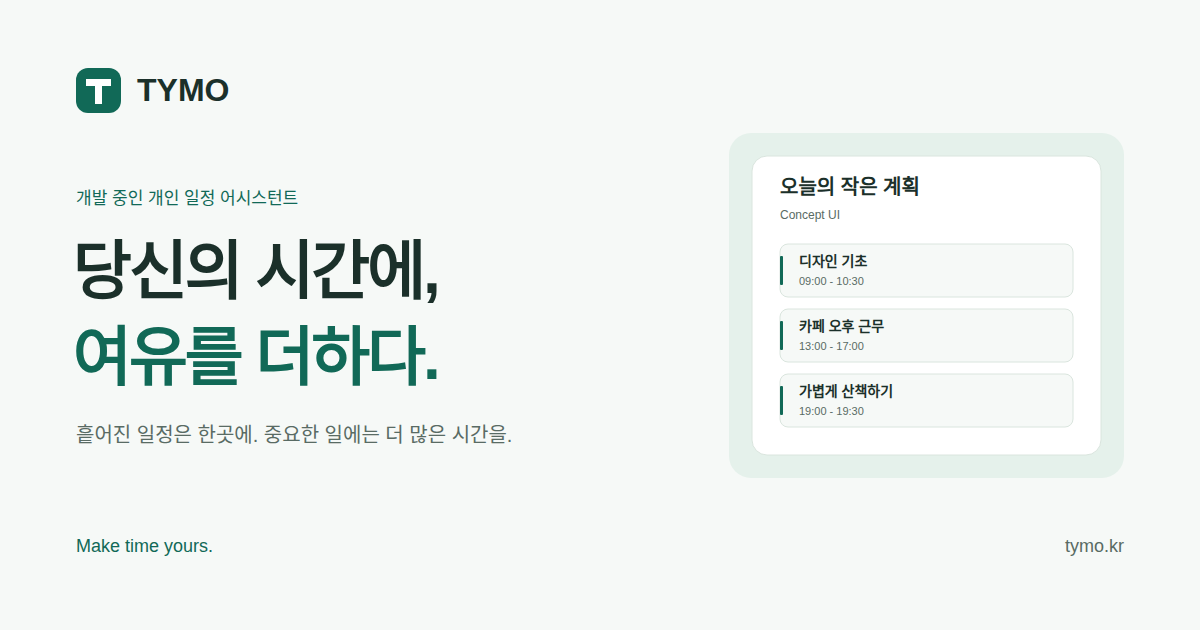
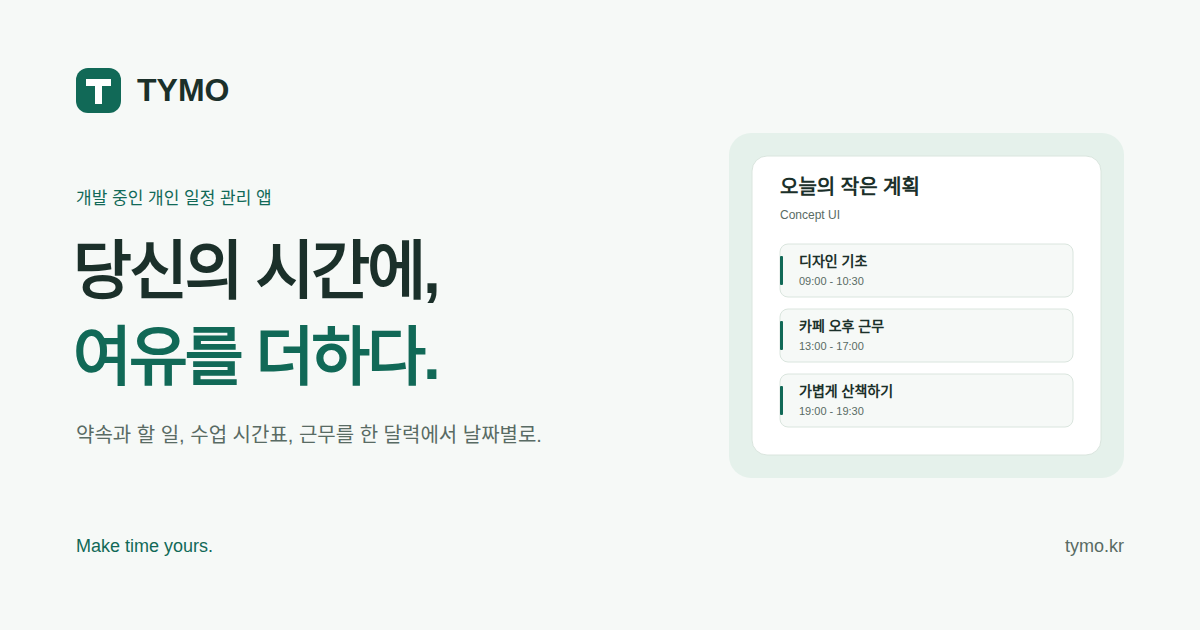
Improve mobile calendar readability and simplify landing content

Changed region(s): [[0.0617, 0.6635, 0.4625, 0.7238], [0.185, 0.3016, 0.2467, 0.3317]]

diff --git a/style.css b/style.css
@@ -98,8 +98,6 @@ h1 span { color: var(--accent); }
 .problem-icon { color: #6b8176; display: block; margin-bottom: 20px; }
 .problem-grid h3 { font-size: 17px; letter-spacing: -.6px; margin-bottom: 10px; }
 .problem-grid p { font-size: 13px; color: var(--muted); line-height: 1.8; }
-.about-statement { padding-top: 56px; margin-top: 56px; border-top: 1px solid var(--line); text-align: center; font-size: 18px; color: var(--muted); line-height: 1.8; }
-.about-statement strong { color: var(--accent); font-weight: 650; }
 .features { background: #edf3ef; }
 .feature-grid { display: grid; grid-template-columns: 1.08fr 1fr; gap: 20px; margin-top: 42px; }
 .feature-card { position: relative; min-width: 0; padding: 30px; border: 1px solid var(--line); background: var(--surface); border-radius: var(--radius); overflow: hidden; transition: border-color .2s ease, transform .2s ease; }
@@ -184,7 +182,7 @@ h1 span { color: var(--accent); }
 .free-time > span:last-child { display: block; color: var(--muted); font-size: 9px; margin-top: 10px; }
 .product-frame figcaption { padding: 15px 24px; text-align: center; font-size: 12px; color: var(--muted); border-top: 1px solid var(--line); background: #fafcfb; }
 .example-month-heading { display: flex; flex-wrap: wrap; justify-content: space-between; align-items: baseline; gap: 8px; margin-bottom: 18px; }
-.example-month-heading > span { font-size: 10px; color: var(--muted); }
+.example-month-heading > span { font-size: 12px; color: var(--muted); }
 .example-calendar { border: 1px solid var(--line); border-radius: var(--radius-small); overflow: hidden; }
 .calendar-weekdays, .calendar-dates { display: grid; grid-template-columns: repeat(7, minmax(0, 1fr)); }
 .calendar-weekdays { background: var(--bg); }
@@ -196,6 +194,12 @@ h1 span { color: var(--accent); }
 .calendar-dates b { display: inline-grid; place-items: center; width: 18px; height: 18px; background: var(--accent); color: white; border-radius: 50%; }
 .calendar-dates div > span { display: block; font-size: 8px; padding: 2px 4px; margin-top: 3px; border-radius: 3px; background: #edf3ef; color: var(--accent); overflow: hidden; white-space: nowrap; text-overflow: ellipsis; }
 .calendar-dates div > .work-example { background: #d8e8dd; color: #224b39; }
+.selected-day { margin-top: 16px; padding: 14px 16px; border: 1px solid var(--line); border-radius: var(--radius-small); background: var(--surface); }
+.selected-day h5 { font-size: 13px; font-weight: 650; }
+.selected-day ol { display: grid; gap: 8px; margin-top: 10px; }
+.selected-day li { display: grid; grid-template-columns: 44px 34px minmax(0, 1fr); align-items: baseline; gap: 6px; font-size: 13px; }
+.selected-day time { color: var(--muted); font-size: 12px; }
+.selected-day .small-tag { font-size: 12px; }
 .calendar-footnote { font-size: 12px; color: var(--muted); margin-top: 16px; }
 .development { border-top: 1px solid var(--line); border-bottom: 1px solid var(--line); background: #f0f5f1; }
 .development-layout { display: grid; grid-template-columns: 1fr 1fr; gap: 76px; align-items: start; }
@@ -320,18 +324,16 @@ h1 span { color: var(--accent); }
   .mini-reminder { font-size: 9px; }
   .section-heading h2 { font-size: 29px; }
   .section-heading > p:not(.eyebrow) { font-size: 13px; }
-  .problem-grid { grid-template-columns: 1fr; gap: 22px; }
-  .problem-grid article { display: grid; grid-template-columns: 34px 1fr; gap: 4px 14px; padding-top: 20px; }
-  .problem-icon { grid-row: span 2; margin-bottom: 0; padding-top: 1px; }
-  .problem-grid h3 { margin: 0; font-size: 16px; }
-  .problem-grid p { font-size: 12px; }
-  .problem-grid br { display: none; }
-  .about-statement { padding-top: 34px; margin-top: 36px; font-size: 15px; }
+  .problem-grid { grid-template-columns: repeat(3, minmax(0, 1fr)); gap: 10px; margin-top: 28px; }
+  .problem-grid article { display: block; padding-top: 14px; text-align: center; }
+  .problem-grid article .problem-icon { margin: 0 auto 8px; padding-top: 0; }
+  .problem-grid h3 { font-size: 14px; }
+  .problem-grid p { display: none; }
   .feature-grid { grid-template-columns: 1fr; gap: 16px; margin-top: 30px; }
   .feature-card { padding: 26px; }
   .feature-card h3 { font-size: 18px; }
   .feature-icon { margin-bottom: 19px; }
-  .feature-visual { margin-top: 25px; }
+  .feature-visual { display: none; }
   .section-note { text-align: left; }
   .product-frame { margin-top: 30px; }
   .product-toolbar { padding: 14px; }
@@ -354,10 +356,11 @@ h1 span { color: var(--accent); }
   .day-list li p, .day-list time { font-size: 10px; }
   .todo-list li { font-size: 12px; }
   .todo-list small, .free-time p { font-size: 10px; }
-  .calendar-dates > div { min-height: 68px; padding: 5px 3px; font-size: 9px; }
-  .calendar-dates div > span { font-size: 7px; padding: 2px; }
+  .calendar-dates > div { min-height: 48px; padding: 5px 3px; font-size: 10px; }
+  .calendar-dates div > span { display: inline-block; width: 6px; height: 6px; margin: 4px 2px 0 0; padding: 0; border-radius: 50%; background: var(--accent); font-size: 0; vertical-align: top; }
+  .calendar-dates div > .work-example { background: var(--muted); }
   .calendar-weekdays span { font-size: 9px; }
-  .example-month-heading > span { font-size: 9px; }
+  .example-month-heading > span { font-size: 12px; }
   .development-list li { gap: 12px; }
   .development-list h3 { font-size: 13px; }
   .availability { grid-template-columns: 1fr; }

diff --git a/index.html b/index.html
@@ -17,7 +17,7 @@
   <meta property="og:image" content="https://tymo.kr/assets/og-cover.png">
   <meta property="og:image:width" content="1200">
   <meta property="og:image:height" content="630">
-  <meta property="og:image:alt" content="TYMO. 당신의 시간에, 여유를 더하다. 개발 중인 개인 일정 어시스턴트.">
+  <meta property="og:image:alt" content="TYMO. 당신의 시간에, 여유를 더하다. 개발 중인 개인 일정 관리 앱. 약속과 할 일, 수업 시간표, 근무를 한 달력에서 날짜별로.">
   <meta name="twitter:card" content="summary_large_image">
   <link rel="icon" href="./assets/favicon.svg" type="image/svg+xml">
   <link rel="stylesheet" href="./style.css">
@@ -79,12 +79,11 @@
         <article><span class="problem-icon" aria-hidden="true"><svg viewBox="0 0 24 24"><path d="M9 6h12M9 12h12M9 18h12M3 5l1 1 2-2M3 11l1 1 2-2M3 17l1 1 2-2"/></svg></span><h3>쌓여 가는 할 일</h3><p>계속 늘어나는 목록.<br>어디서부터 시작할지 막막한 날.</p></article>
         <article><span class="problem-icon" aria-hidden="true"><svg viewBox="0 0 24 24"><circle cx="12" cy="12" r="8.5"/><path d="M12 7v5l3 2"/></svg></span><h3>어긋나는 계획</h3><p>빽빽하게 세운 계획과<br>조금 다른 실제 하루.</p></article>
       </div>
-      <p class="about-statement reveal">TYMO는 일정, 수업, 근무를 한 달력에 모아<br><strong>오늘 무엇이 있는지 날짜별로 확인하도록</strong> 돕습니다.</p>
     </section>
 
     <section class="features section" id="features" aria-labelledby="features-heading">
       <div class="container">
-        <div class="section-heading reveal"><h2 id="features-heading">더 많이 해내기보다,<br>더 나답게 보내도록.</h2><p>일정, 시간표, 근무를 이렇게 연결해요.<br>개발 중인 기능을 짧은 사용 흐름으로 소개합니다.</p></div>
+        <div class="section-heading reveal"><h2 id="features-heading">더 많이 해내기보다,<br>더 나답게 보내도록.</h2><p>개발 중인 기능을 세 가지 사용 흐름으로 소개합니다.</p></div>
         <div class="feature-grid">
           <article class="feature-card feature-calendar reveal">
             <span class="feature-icon" aria-hidden="true"><svg viewBox="0 0 24 24"><rect x="3" y="5" width="18" height="16" rx="3"/><path d="M7 3v4m10-4v4M3 10h18m-13 5h3m3 0h2"/></svg></span>
@@ -141,6 +140,7 @@
                   <div>26<span>디자인 기초</span></div><div>27</div><div>28<span>디자인 기초</span></div><div>29</div><div>30<span class="work-example">카페 근무</span></div><div>31</div><div class="outside">1</div>
                 </div>
               </div>
+              <section class="selected-day" aria-labelledby="selected-day-heading"><h5 id="selected-day-heading">10월 7일 수요일 일정</h5><ol><li><time>09:00</time><span class="small-tag">수업</span><span>디자인 기초</span></li><li><time>13:00</time><span class="small-tag">근무</span><span>카페 오후 근무</span></li><li><time>19:00</time><span class="small-tag">개인</span><span>가볍게 산책하기</span></li></ol></section>
               <p class="calendar-footnote">예시에서는 10월 7일을 선택한 상태입니다. 일정을 입력하거나 저장하는 기능은 제공하지 않습니다.</p>
             </div>
           </div>
